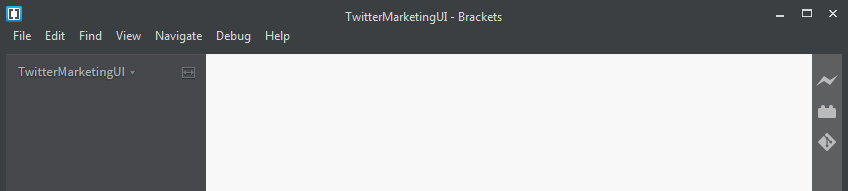
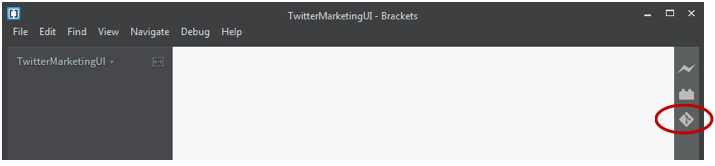
Completed adding images - still need to add formatting

diff --git a/CloudNativeMicroservices/CloudNative300.md b/CloudNativeMicroservices/CloudNative300.md
@@ -587,46 +587,91 @@ Step 21:	Merge Requests
 
 - When the new browser tab loads, click Graphics to display twitter feed data.
 
+    ![](images/300/image102.png)
+
 - To complete the Sprint Feature, click on Agile in the Twitter Feed Marketing Project Dashboard. Then click on the Active Sprints button.
+
+    ![](images/300/image103.png)
 
 - Complete the feature request by Dragging and Dropping Feature 4 (Display Twitter Feed in Table Format) from the Verify Column to the Completed Column.
 
+    ![](images/300/image104.png)
+
 - Set the Status to VERIFIED – FIXED and click OK
 
+    ![](images/300/image105.png)
+
 - You are now ready to move to the next lab.
-Appendix 1 – Installing Brackets and Git
+
+# Appendix 1 – Installing Brackets and Git
+
 Download and Install Git
 Step 22:	Download Git
+
 - Go to the following URL: https://git-scm.com/downloads
+
+    ![](images/300/image106.png)
 
 - Select you OS. In our example we will show how to install on Windows. Click Windows Download and click Save File
 
+    ![](images/300/image107.png)
+
 - Select you download location and click Save. We will use D:\Software
+
+    ![](images/300/image108.png)
 
 - Open Windows Explorer and navigate you where you downloaded the Git executable. Double click on Git executable to start install process.
 
+    ![](images/300/image109.png)
+
 - Run through the installation process
 
-Download and Install Brackets Text Editor
-Step 23:	Download Brackets Text Editor
+    ![](images/300/image110.png)
+
+## Download and Install Brackets Text Editor
+
+### Step 24: Download Brackets Text Editor
+
 - Go to the following URL: http://brackets.io
+
+    ![](images/300/image111.png)
 
 - Click Download Brackets 1.7 then click Save File
 
+    ![](images/300/image112.png)
+
 - Select you download location and click Save. We will use D:\Software
+
+    ![](images/300/image113.png)
 
 - Open Windows Explorer and navigate you where you downloaded Brackets. Double click on Git executable to start install process.
 
+    ![](images/300/image114.png)
+
 - Run through the installation process
-Start Brackets and Configure Git
-Step 24:	Start Brackets and Configure Git
+
+## Start Brackets and Configure Git
+
+### Step 25: Start Brackets and Configure Git
+
 - Create directory TwitterMarketingUI. From Windows Explorer navigate to the directory TwitterMarketingUI, right click and select Open as Brackets Project
 
+    ![](images/300/image115.png)
+
 - Select File -> Extension Manager…
+
 - In search window enter GIT. Click Install for Brackets Git
+
+    ![](images/300/image116.png)
 
 - After install completes, leave defaults for Git Settings and click Save
 
+    ![](images/300/image117.png)
+
 - Click OK to restart Brackets
 
+    ![](images/300/image118.png)
+
 - You will now see the Git icon on the right hand panel
+
+    ![](images/300/image119.png)
